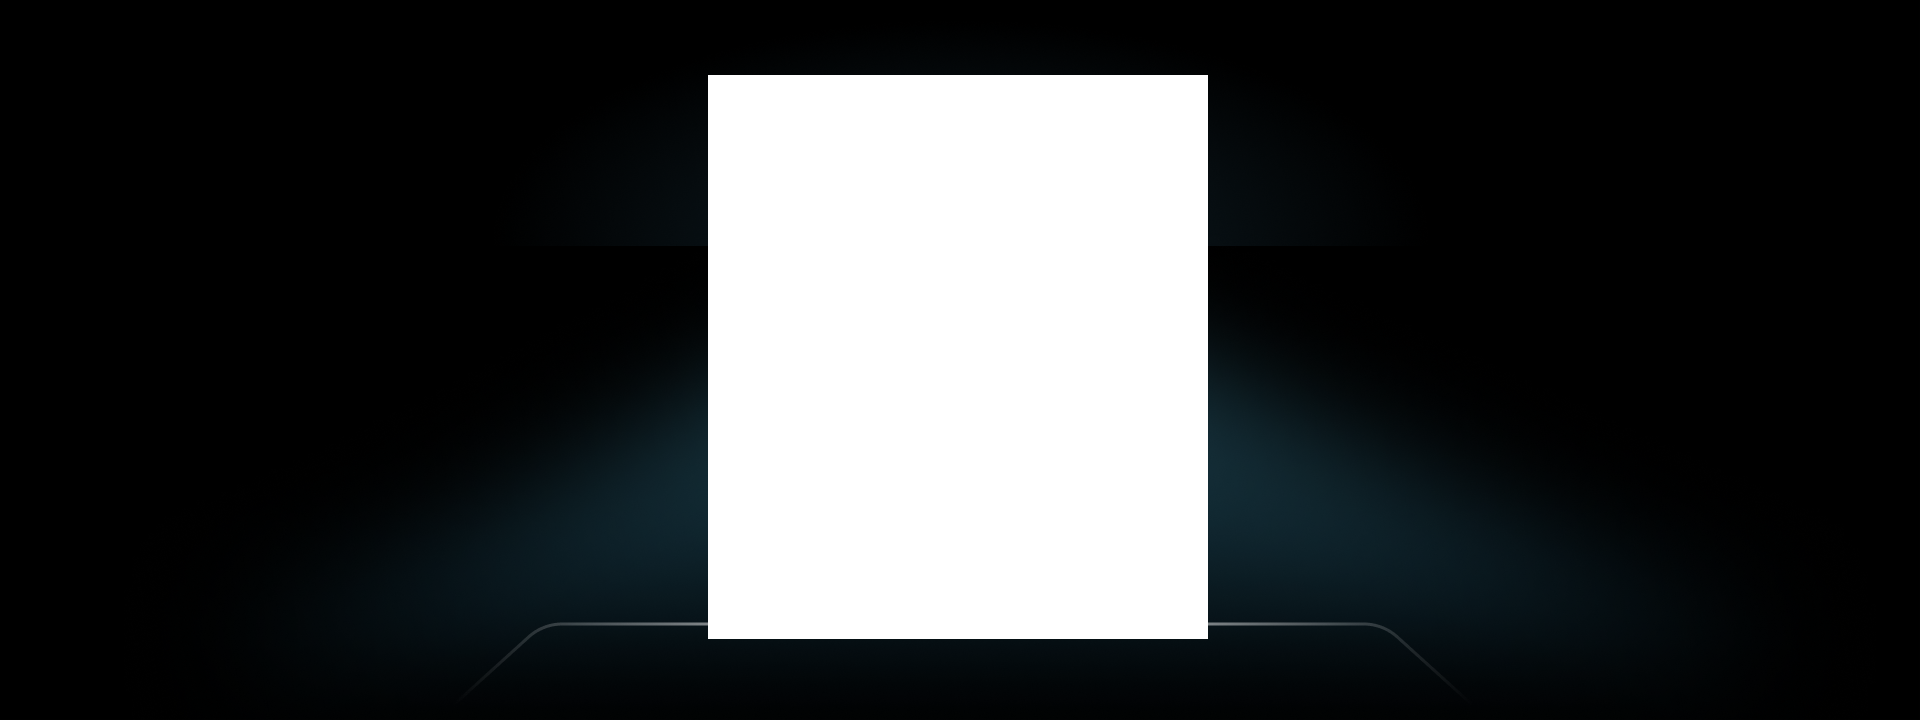
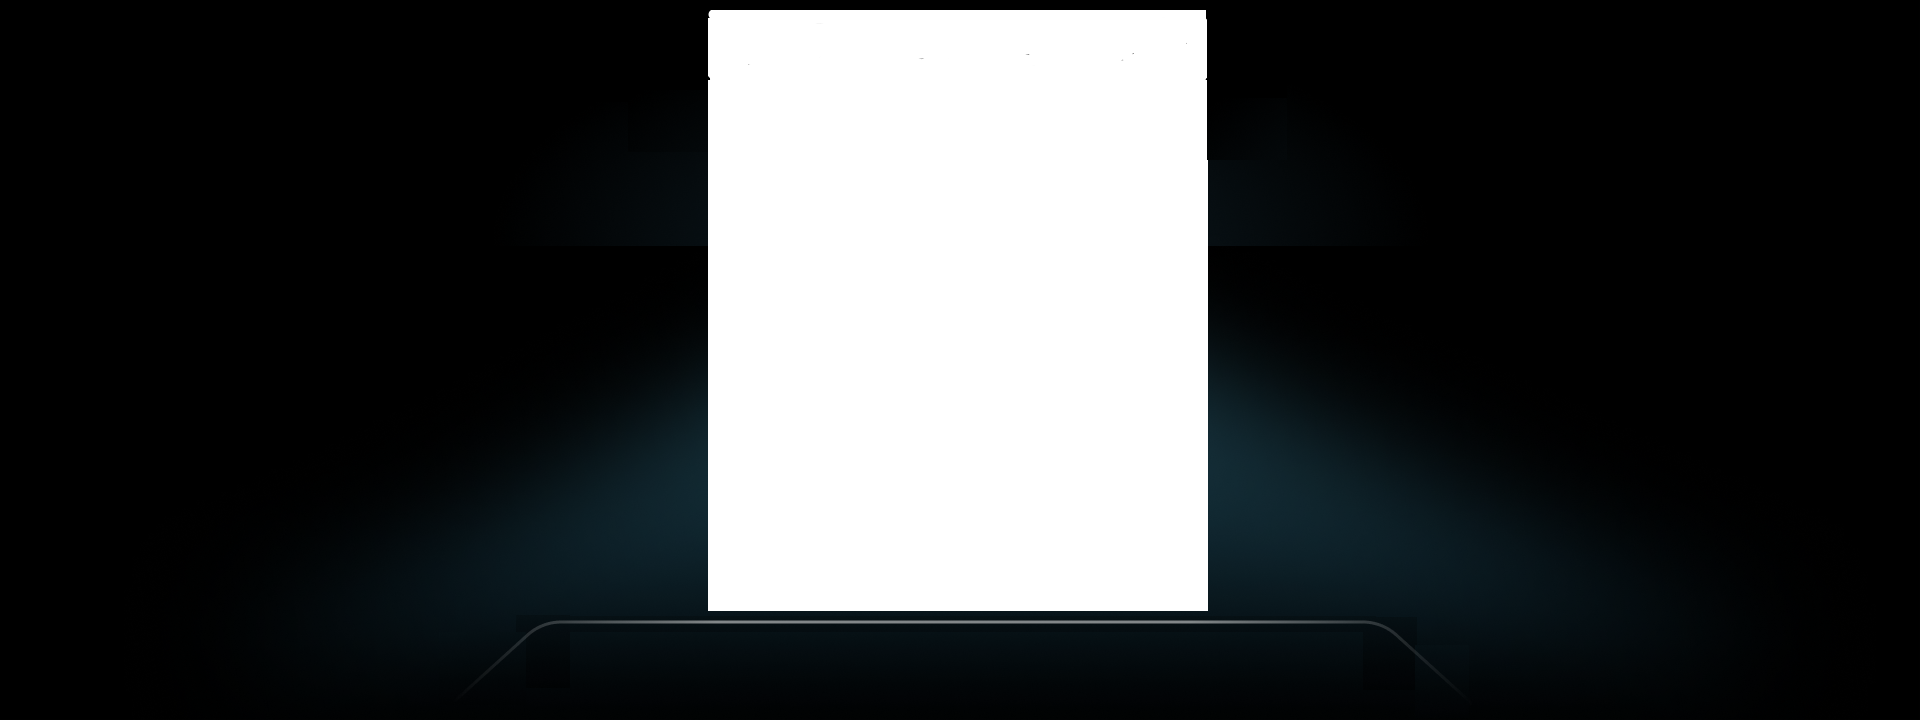
cluster-view: add new background and 'epam' image
At the startup, instead of black square for android
the image with 'Epam' logo is displayed until android starts

Changed region(s): [[0.3438, 0.0, 0.6562, 0.1222], [0.2812, 0.825, 0.7188, 0.8861]]

diff --git a/meta-xt-prod-cockpit-rcar-driver-domain/recipes-extended/cluster-view/files/main.qml b/meta-xt-prod-cockpit-rcar-driver-domain/recipes-extended/cluster-view/files/main.qml
@@ -22,6 +22,7 @@ Window {
         onGearValueChanged: {
             for(var i= 0; i < footer.gear.length;++i)
             {
+                console.log(" SRC Gear Value " + vis.gearValue + " comparing with " + footer.gear[i].gear)
                 if(vis.gearValue == footer.gear[i].gear){
                     footer.currentGear = i;
                     return;
@@ -39,7 +40,9 @@ Window {
         width: 1920
         height: 720
         anchors.fill: parent
+        opacity: cmdLine.firstStart ? 0 : 1
         Rectangle {
+            id: cluster_bckg
             anchors.fill: parent
             color: "transparent"
             Image {
@@ -55,10 +58,20 @@ Window {
                 }
                 x:0
                 y:0
+                opacity: 1
             }
         }
 
-        TimeInfo{
+        Image {
+            id: epam
+            source : "images/epam.png"
+            x: 707
+            y: 10
+            opacity: 1
+            visible: cmdLine.getMode() == 1 && cmdLine.firstStart == 1
+        }
+
+         TimeInfo{
 
         }
 
@@ -77,7 +90,7 @@ Window {
             x:{
                 if(cmdLine.getMode() == 1)
                 {
-                    return 658
+                    return 580
                 }
                 return 284
             }
@@ -135,6 +148,26 @@ Window {
             interval: 60000; running: !vis.connectedValue; repeat: true
             onTriggered: {
                 topInfo.timeUpdated++
+            }
+        }
+
+        Timer {
+            id: epamTimer
+            interval: 450; repeat: false; running: cmdLine.getMode() == 1 && cmdLine.firstStart == 1 && epam.opacity != 0
+
+            onTriggered: {
+                epam.opacity -= 0.01
+
+                if(epam.opacity == 0)
+                {
+                   epam.visible = false
+                   epamTimer.stop()
+                }
+                console.log("!!!Background opacity " + topInfo.opacity)
+                if(topInfo.opacity != 1)
+                {
+                    topInfo.opacity += 0.1
+                }
             }
         }
 

diff --git a/meta-xt-prod-cockpit-rcar-driver-domain/recipes-extended/cluster-view/files/commandline.cpp b/meta-xt-prod-cockpit-rcar-driver-domain/recipes-extended/cluster-view/files/commandline.cpp
@@ -1,9 +1,30 @@
 #include "commandline.h"
+#include <QFile>
+#include <QFileInfo>
+#include <QIODevice>
+#include <QString>
+#include <QTextStream>
+#include <QDebug>
+
+static void setStartMarker(int started)
+{
+    QFile file("/tmp/clusterview.started");
+    file.open(QIODevice::ReadWrite | QIODevice::Text);
+    QTextStream stream(&file);
+    stream << started << endl;
+    file.close();
+}
 
 CommandLine::CommandLine()
 {
-
+    mFirstStart = (int)!QFile::exists("/tmp/clusterview.started");
+    setStartMarker(1);
 }
+
+CommandLine::~CommandLine()
+{
+}
+
 Q_INVOKABLE QString CommandLine::getUrl() const {
     return mUrl;
 }
@@ -24,9 +45,11 @@ void CommandLine::setUrlValue(QString url)
     emit urlValueChanged();
 }
 
-Q_INVOKABLE int CommandLine::getMode() const {
+Q_INVOKABLE int CommandLine::getMode() const
+{
     return mMode;
 }
+
 
 int CommandLine::modeValue()
 {
@@ -42,4 +65,22 @@ void CommandLine::setModeValue(int mode)
     mMode = mode;
 
     emit modeValueChanged();
+}
+
+Q_INVOKABLE int CommandLine::getFirstStart() const
+{
+    qDebug() << "Get firstStart " << mFirstStart;
+    return mFirstStart;
+}
+int CommandLine::firstStart()
+{
+    return mFirstStart;
+}
+void CommandLine::setFirstStart(int started)
+{
+    if(mFirstStart)
+    {
+        setStartMarker(started);
+        mFirstStart = 0;
+    }
 }

diff --git a/meta-xt-prod-cockpit-rcar-driver-domain/recipes-extended/cluster-view/files/commandline.h b/meta-xt-prod-cockpit-rcar-driver-domain/recipes-extended/cluster-view/files/commandline.h
@@ -9,11 +9,14 @@ class CommandLine: public QObject
     Q_OBJECT
     Q_PROPERTY(QString urlValue READ urlValue WRITE setUrlValue NOTIFY urlValueChanged)
     Q_PROPERTY(int modeValue READ modeValue WRITE setModeValue NOTIFY modeValueChanged)
+    Q_PROPERTY(int firstStart READ firstStart WRITE setFirstStart NOTIFY firstStartChanged)
 public:
     CommandLine();
+    ~CommandLine();
 
     Q_INVOKABLE QString getUrl() const;
     Q_INVOKABLE int     getMode() const;
+    Q_INVOKABLE int     getFirstStart() const;
 
     QString urlValue();
     void setUrlValue(QString url);
@@ -21,13 +24,18 @@ public:
     int modeValue();
     void setModeValue(int mode);
 
+    int firstStart();
+    void setFirstStart(int started);
+
 signals:
     void urlValueChanged();
     void modeValueChanged();
+    void firstStartChanged();
 
 private:
     QString mUrl;
     int mMode;
+    int mFirstStart;
 };
 
 #endif // COMMANDLINE_H
